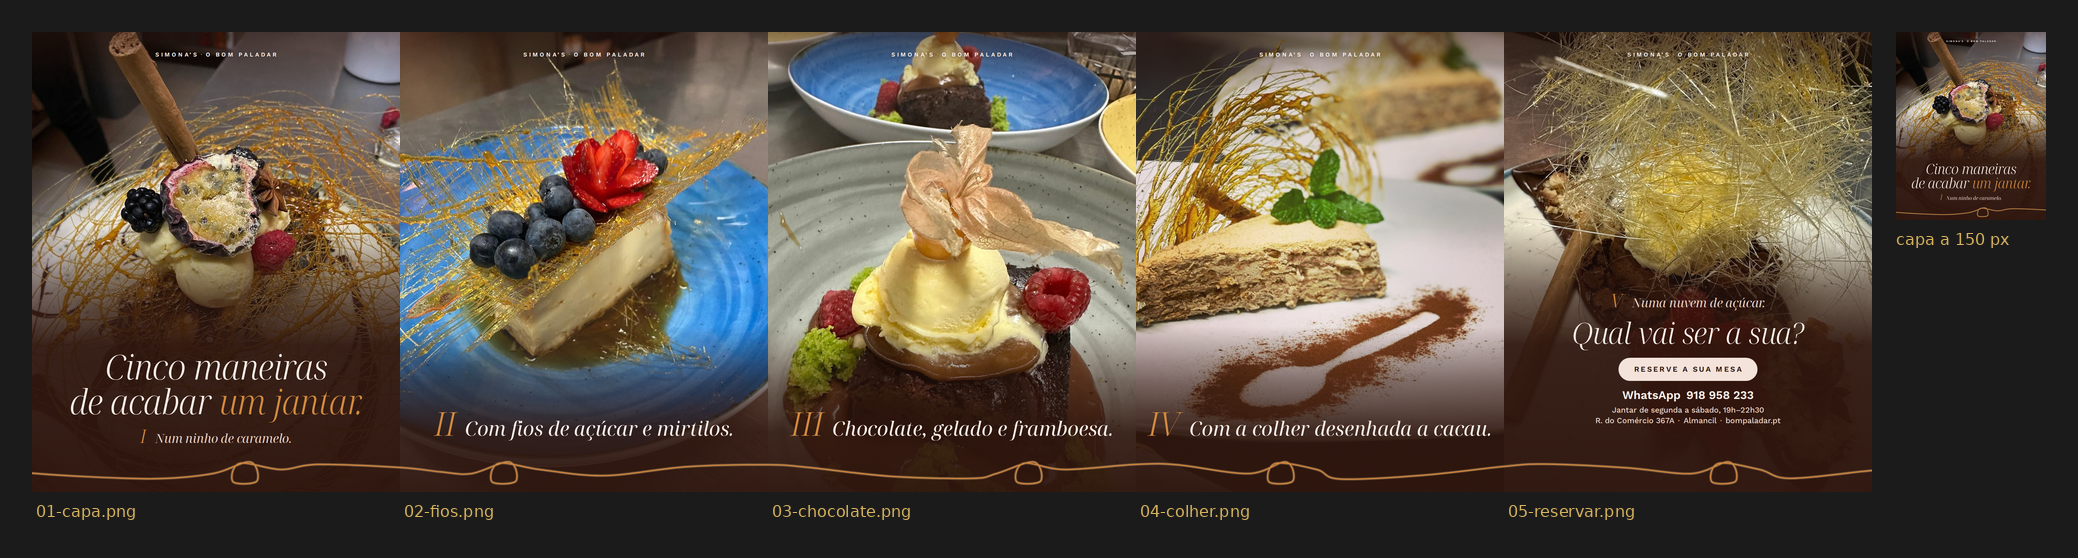
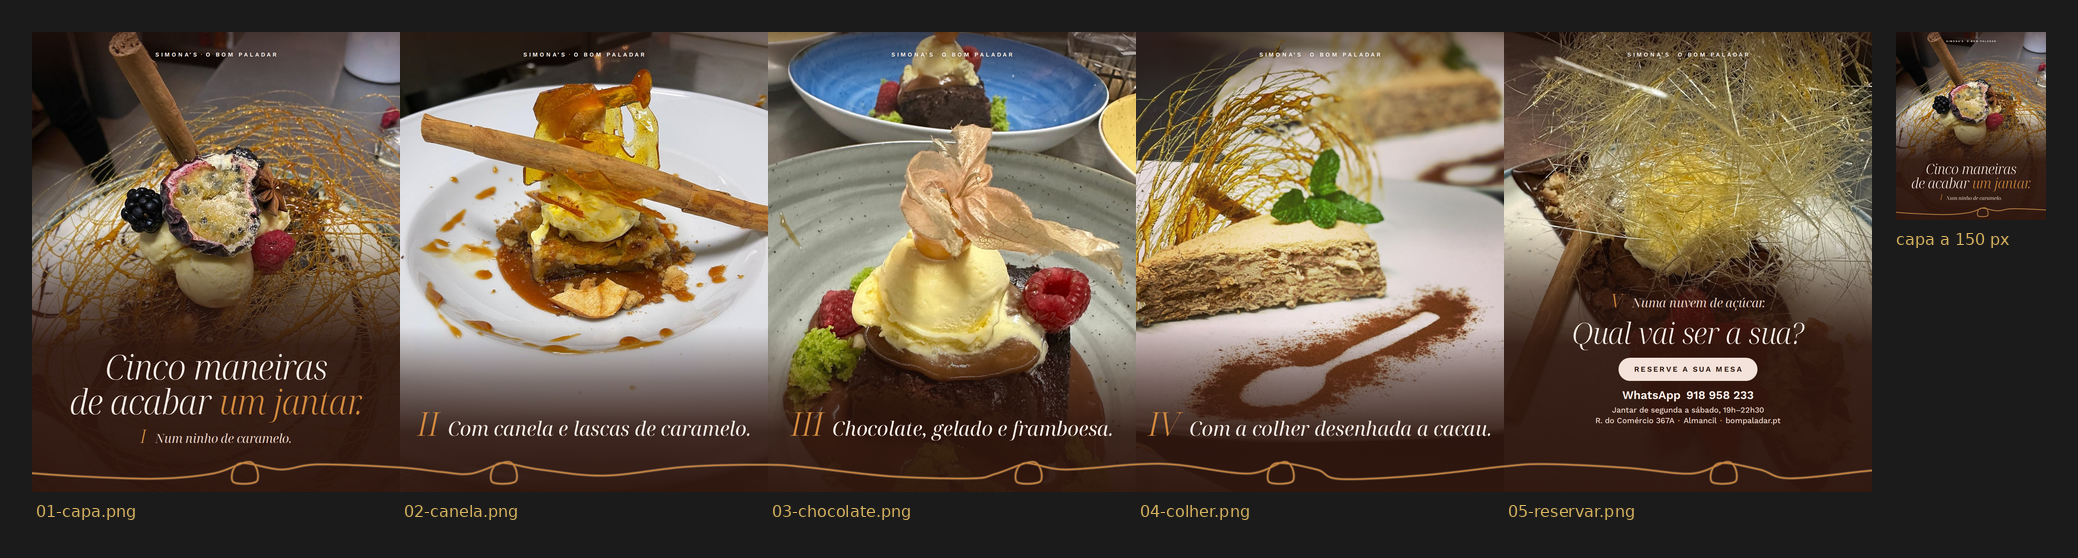
Bom Paladar (arsenal): slide 2 com outra sobremesa (a do pudim foi publicada há pouco)
Claude-Session: https://claude.ai/code/session_01T2udCx2Sd3Psw31k9rqWKh

Changed region(s): [[0.1848, 0.0609, 0.3696, 0.7921], [0.2156, 0.914, 0.2464, 0.9444]]

diff --git a/social/bom-paladar/arsenal-doces/carrossel.html b/social/bom-paladar/arsenal-doces/carrossel.html
@@ -35,9 +35,9 @@ body{background:#1b1b1b;display:flex;flex-direction:column;align-items:center;ga
   <h1 class="t" style="position:absolute;left:0;right:0;top:930px;z-index:3">Cinco maneiras<br>de acabar <em>um jantar.</em></h1>
   <div class="rodape" style="top:1158px"><span class="num" style="font-size:54px">I</span><span class="leg" style="font-size:36px;color:#E9D3C6">Num ninho de caramelo.</span></div>
   <svg class="fio" viewBox="0 0 1080 1350" width="1080" height="1350" aria-hidden="true"><path d="M-60,1290 C-30.0,1292.2 50.0,1299.5 120,1303 C190.0,1306.5 291.7,1312.2 360,1311 C428.3,1309.8 483.3,1304.2 530,1296 C576.7,1287.8 618.3,1258.3 640,1262 C661.7,1265.7 668.3,1308.3 660,1318 C651.7,1327.7 598.3,1328.7 590,1320 C581.7,1311.3 586.7,1272.0 610,1266 C633.3,1260.0 691.7,1283.5 730,1284 C768.3,1284.5 781.7,1270.0 840,1269 C898.3,1268.0 1020.0,1274.3 1080,1278 C1140.0,1281.7 1165.0,1288.0 1200,1291 C1235.0,1294.0 1256.7,1300.8 1290,1296 C1323.3,1291.2 1378.3,1258.3 1400,1262 C1421.7,1265.7 1428.3,1308.3 1420,1318 C1411.7,1327.7 1358.3,1328.7 1350,1320 C1341.7,1311.3 1346.7,1272.0 1370,1266 C1393.3,1260.0 1438.3,1278.0 1490,1284 C1541.7,1290.0 1608.3,1303.3 1680,1302 C1751.7,1300.7 1840.0,1281.3 1920,1276 C2000.0,1270.7 2100.0,1269.7 2160,1270 C2220.0,1270.3 2220.0,1272.3 2280,1278 C2340.0,1283.7 2440.0,1298.7 2520,1304 C2600.0,1309.3 2708.3,1311.3 2760,1310 C2811.7,1308.7 2800.0,1304.0 2830,1296 C2860.0,1288.0 2918.3,1258.3 2940,1262 C2961.7,1265.7 2968.3,1308.3 2960,1318 C2951.7,1327.7 2898.3,1328.7 2890,1320 C2881.7,1311.3 2886.7,1272.0 2910,1266 C2933.3,1260.0 2975.0,1283.5 3030,1284 C3085.0,1284.5 3185.0,1271.3 3240,1269 C3295.0,1266.7 3305.0,1265.5 3360,1270 C3415.0,1274.5 3516.7,1297.3 3570,1296 C3623.3,1294.7 3658.3,1258.3 3680,1262 C3701.7,1265.7 3708.3,1308.3 3700,1318 C3691.7,1327.7 3638.3,1328.7 3630,1320 C3621.7,1311.3 3626.7,1272.0 3650,1266 C3673.3,1260.0 3738.3,1276.3 3770,1284 C3801.7,1291.7 3788.3,1309.2 3840,1312 C3891.7,1314.8 4000.0,1307.2 4080,1301 C4160.0,1294.8 4260.0,1280.5 4320,1275 C4380.0,1269.5 4380.0,1267.3 4440,1268 C4500.0,1268.7 4608.3,1274.3 4680,1279 C4751.7,1283.7 4820.0,1298.8 4870,1296 C4920.0,1293.2 4958.3,1258.3 4980,1262 C5001.7,1265.7 5008.3,1308.3 5000,1318 C4991.7,1327.7 4938.3,1328.7 4930,1320 C4921.7,1311.3 4926.7,1272.0 4950,1266 C4973.3,1260.0 5035.0,1276.7 5070,1284 C5105.0,1291.3 5105.0,1309.5 5160,1310 C5215.0,1310.5 5350.0,1290.3 5400,1287 C5450.0,1283.7 5450.0,1289.5 5460,1290" stroke="#E7B77E" stroke-width="8" fill="none" stroke-linecap="round" opacity=".35"/><path d="M-60,1290 C-30.0,1292.2 50.0,1299.5 120,1303 C190.0,1306.5 291.7,1312.2 360,1311 C428.3,1309.8 483.3,1304.2 530,1296 C576.7,1287.8 618.3,1258.3 640,1262 C661.7,1265.7 668.3,1308.3 660,1318 C651.7,1327.7 598.3,1328.7 590,1320 C581.7,1311.3 586.7,1272.0 610,1266 C633.3,1260.0 691.7,1283.5 730,1284 C768.3,1284.5 781.7,1270.0 840,1269 C898.3,1268.0 1020.0,1274.3 1080,1278 C1140.0,1281.7 1165.0,1288.0 1200,1291 C1235.0,1294.0 1256.7,1300.8 1290,1296 C1323.3,1291.2 1378.3,1258.3 1400,1262 C1421.7,1265.7 1428.3,1308.3 1420,1318 C1411.7,1327.7 1358.3,1328.7 1350,1320 C1341.7,1311.3 1346.7,1272.0 1370,1266 C1393.3,1260.0 1438.3,1278.0 1490,1284 C1541.7,1290.0 1608.3,1303.3 1680,1302 C1751.7,1300.7 1840.0,1281.3 1920,1276 C2000.0,1270.7 2100.0,1269.7 2160,1270 C2220.0,1270.3 2220.0,1272.3 2280,1278 C2340.0,1283.7 2440.0,1298.7 2520,1304 C2600.0,1309.3 2708.3,1311.3 2760,1310 C2811.7,1308.7 2800.0,1304.0 2830,1296 C2860.0,1288.0 2918.3,1258.3 2940,1262 C2961.7,1265.7 2968.3,1308.3 2960,1318 C2951.7,1327.7 2898.3,1328.7 2890,1320 C2881.7,1311.3 2886.7,1272.0 2910,1266 C2933.3,1260.0 2975.0,1283.5 3030,1284 C3085.0,1284.5 3185.0,1271.3 3240,1269 C3295.0,1266.7 3305.0,1265.5 3360,1270 C3415.0,1274.5 3516.7,1297.3 3570,1296 C3623.3,1294.7 3658.3,1258.3 3680,1262 C3701.7,1265.7 3708.3,1308.3 3700,1318 C3691.7,1327.7 3638.3,1328.7 3630,1320 C3621.7,1311.3 3626.7,1272.0 3650,1266 C3673.3,1260.0 3738.3,1276.3 3770,1284 C3801.7,1291.7 3788.3,1309.2 3840,1312 C3891.7,1314.8 4000.0,1307.2 4080,1301 C4160.0,1294.8 4260.0,1280.5 4320,1275 C4380.0,1269.5 4380.0,1267.3 4440,1268 C4500.0,1268.7 4608.3,1274.3 4680,1279 C4751.7,1283.7 4820.0,1298.8 4870,1296 C4920.0,1293.2 4958.3,1258.3 4980,1262 C5001.7,1265.7 5008.3,1308.3 5000,1318 C4991.7,1327.7 4938.3,1328.7 4930,1320 C4921.7,1311.3 4926.7,1272.0 4950,1266 C4973.3,1260.0 5035.0,1276.7 5070,1284 C5105.0,1291.3 5105.0,1309.5 5160,1310 C5215.0,1310.5 5350.0,1290.3 5400,1287 C5450.0,1283.7 5450.0,1289.5 5460,1290" stroke="var(--caramelo)" stroke-width="3" fill="none" stroke-linecap="round"/></svg><p class="marca">Simona’s<b>·</b>O Bom Paladar</p>
-</section><section class="slide" id="02-fios"><img class="fundo" src="img/02-fios.jpg" alt="">
+</section><section class="slide" id="02-canela"><img class="fundo" src="img/02-canela.jpg" alt="">
   <div class="sombra"></div>
-  <div class="rodape" style="top:1100px"><span class="num">II</span><span class="leg">Com fios de açúcar e mirtilos.</span></div>
+  <div class="rodape" style="top:1100px"><span class="num">II</span><span class="leg">Com canela e lascas de caramelo.</span></div>
   <svg class="fio" viewBox="1080 0 1080 1350" width="1080" height="1350" aria-hidden="true"><path d="M-60,1290 C-30.0,1292.2 50.0,1299.5 120,1303 C190.0,1306.5 291.7,1312.2 360,1311 C428.3,1309.8 483.3,1304.2 530,1296 C576.7,1287.8 618.3,1258.3 640,1262 C661.7,1265.7 668.3,1308.3 660,1318 C651.7,1327.7 598.3,1328.7 590,1320 C581.7,1311.3 586.7,1272.0 610,1266 C633.3,1260.0 691.7,1283.5 730,1284 C768.3,1284.5 781.7,1270.0 840,1269 C898.3,1268.0 1020.0,1274.3 1080,1278 C1140.0,1281.7 1165.0,1288.0 1200,1291 C1235.0,1294.0 1256.7,1300.8 1290,1296 C1323.3,1291.2 1378.3,1258.3 1400,1262 C1421.7,1265.7 1428.3,1308.3 1420,1318 C1411.7,1327.7 1358.3,1328.7 1350,1320 C1341.7,1311.3 1346.7,1272.0 1370,1266 C1393.3,1260.0 1438.3,1278.0 1490,1284 C1541.7,1290.0 1608.3,1303.3 1680,1302 C1751.7,1300.7 1840.0,1281.3 1920,1276 C2000.0,1270.7 2100.0,1269.7 2160,1270 C2220.0,1270.3 2220.0,1272.3 2280,1278 C2340.0,1283.7 2440.0,1298.7 2520,1304 C2600.0,1309.3 2708.3,1311.3 2760,1310 C2811.7,1308.7 2800.0,1304.0 2830,1296 C2860.0,1288.0 2918.3,1258.3 2940,1262 C2961.7,1265.7 2968.3,1308.3 2960,1318 C2951.7,1327.7 2898.3,1328.7 2890,1320 C2881.7,1311.3 2886.7,1272.0 2910,1266 C2933.3,1260.0 2975.0,1283.5 3030,1284 C3085.0,1284.5 3185.0,1271.3 3240,1269 C3295.0,1266.7 3305.0,1265.5 3360,1270 C3415.0,1274.5 3516.7,1297.3 3570,1296 C3623.3,1294.7 3658.3,1258.3 3680,1262 C3701.7,1265.7 3708.3,1308.3 3700,1318 C3691.7,1327.7 3638.3,1328.7 3630,1320 C3621.7,1311.3 3626.7,1272.0 3650,1266 C3673.3,1260.0 3738.3,1276.3 3770,1284 C3801.7,1291.7 3788.3,1309.2 3840,1312 C3891.7,1314.8 4000.0,1307.2 4080,1301 C4160.0,1294.8 4260.0,1280.5 4320,1275 C4380.0,1269.5 4380.0,1267.3 4440,1268 C4500.0,1268.7 4608.3,1274.3 4680,1279 C4751.7,1283.7 4820.0,1298.8 4870,1296 C4920.0,1293.2 4958.3,1258.3 4980,1262 C5001.7,1265.7 5008.3,1308.3 5000,1318 C4991.7,1327.7 4938.3,1328.7 4930,1320 C4921.7,1311.3 4926.7,1272.0 4950,1266 C4973.3,1260.0 5035.0,1276.7 5070,1284 C5105.0,1291.3 5105.0,1309.5 5160,1310 C5215.0,1310.5 5350.0,1290.3 5400,1287 C5450.0,1283.7 5450.0,1289.5 5460,1290" stroke="#E7B77E" stroke-width="8" fill="none" stroke-linecap="round" opacity=".35"/><path d="M-60,1290 C-30.0,1292.2 50.0,1299.5 120,1303 C190.0,1306.5 291.7,1312.2 360,1311 C428.3,1309.8 483.3,1304.2 530,1296 C576.7,1287.8 618.3,1258.3 640,1262 C661.7,1265.7 668.3,1308.3 660,1318 C651.7,1327.7 598.3,1328.7 590,1320 C581.7,1311.3 586.7,1272.0 610,1266 C633.3,1260.0 691.7,1283.5 730,1284 C768.3,1284.5 781.7,1270.0 840,1269 C898.3,1268.0 1020.0,1274.3 1080,1278 C1140.0,1281.7 1165.0,1288.0 1200,1291 C1235.0,1294.0 1256.7,1300.8 1290,1296 C1323.3,1291.2 1378.3,1258.3 1400,1262 C1421.7,1265.7 1428.3,1308.3 1420,1318 C1411.7,1327.7 1358.3,1328.7 1350,1320 C1341.7,1311.3 1346.7,1272.0 1370,1266 C1393.3,1260.0 1438.3,1278.0 1490,1284 C1541.7,1290.0 1608.3,1303.3 1680,1302 C1751.7,1300.7 1840.0,1281.3 1920,1276 C2000.0,1270.7 2100.0,1269.7 2160,1270 C2220.0,1270.3 2220.0,1272.3 2280,1278 C2340.0,1283.7 2440.0,1298.7 2520,1304 C2600.0,1309.3 2708.3,1311.3 2760,1310 C2811.7,1308.7 2800.0,1304.0 2830,1296 C2860.0,1288.0 2918.3,1258.3 2940,1262 C2961.7,1265.7 2968.3,1308.3 2960,1318 C2951.7,1327.7 2898.3,1328.7 2890,1320 C2881.7,1311.3 2886.7,1272.0 2910,1266 C2933.3,1260.0 2975.0,1283.5 3030,1284 C3085.0,1284.5 3185.0,1271.3 3240,1269 C3295.0,1266.7 3305.0,1265.5 3360,1270 C3415.0,1274.5 3516.7,1297.3 3570,1296 C3623.3,1294.7 3658.3,1258.3 3680,1262 C3701.7,1265.7 3708.3,1308.3 3700,1318 C3691.7,1327.7 3638.3,1328.7 3630,1320 C3621.7,1311.3 3626.7,1272.0 3650,1266 C3673.3,1260.0 3738.3,1276.3 3770,1284 C3801.7,1291.7 3788.3,1309.2 3840,1312 C3891.7,1314.8 4000.0,1307.2 4080,1301 C4160.0,1294.8 4260.0,1280.5 4320,1275 C4380.0,1269.5 4380.0,1267.3 4440,1268 C4500.0,1268.7 4608.3,1274.3 4680,1279 C4751.7,1283.7 4820.0,1298.8 4870,1296 C4920.0,1293.2 4958.3,1258.3 4980,1262 C5001.7,1265.7 5008.3,1308.3 5000,1318 C4991.7,1327.7 4938.3,1328.7 4930,1320 C4921.7,1311.3 4926.7,1272.0 4950,1266 C4973.3,1260.0 5035.0,1276.7 5070,1284 C5105.0,1291.3 5105.0,1309.5 5160,1310 C5215.0,1310.5 5350.0,1290.3 5400,1287 C5450.0,1283.7 5450.0,1289.5 5460,1290" stroke="var(--caramelo)" stroke-width="3" fill="none" stroke-linecap="round"/></svg><p class="marca">Simona’s<b>·</b>O Bom Paladar</p>
 </section><section class="slide" id="03-chocolate"><img class="fundo" src="img/03-chocolate.jpg" alt="">
   <div class="sombra"></div>

diff --git a/social/bom-paladar/arsenal-doces/build.py b/social/bom-paladar/arsenal-doces/build.py
@@ -30,7 +30,7 @@ CASA = {
 # (id, numeral, legenda, foto, zoom, foco x, foco y)
 DOCES = [
     ("01-capa", "I", "Num ninho de caramelo.", "WhatsApp Image 2026-07-03 at 14.59.40.jpeg", 1.0, 0.5, 0.3),
-    ("02-fios", "II", "Com fios de açúcar e mirtilos.", "WhatsApp Image 2026-07-03 at 14.59.08 (2).jpeg", 1.0, 0.5, 0.35),
+    ("02-canela", "II", "Com canela e lascas de caramelo.", "WhatsApp Image 2026-08-07 at 13.05.21.jpeg", 1.0, 0.5, 0.45),
     ("03-chocolate", "III", "Chocolate, gelado e framboesa.", "WhatsApp Image 2026-07-03 at 14.38.42 (4).jpeg", 1.0, 0.5, 0.6),
     ("04-colher", "IV", "Com a colher desenhada a cacau.", "WhatsApp Image 2026-08-07 at 12.57.48.jpeg", 1.0, 0.4, 0.5),
     ("05-reservar", "V", "Numa nuvem de açúcar.", "WhatsApp Image 2026-07-03 at 14.59.08.jpeg", 1.0, 0.5, 0.1),

diff --git a/social/bom-paladar/arsenal-doces/legenda.md b/social/bom-paladar/arsenal-doces/legenda.md
@@ -9,7 +9,7 @@ Carrossel intemporal, fora da série dos azulejos. Pode sair em qualquer semana.
 | # | Ficheiro | Texto |
 |---|---|---|
 | 1 | `01-capa.png` | **Cinco maneiras de acabar um jantar.** — I. Num ninho de caramelo. |
-| 2 | `02-fios.png` | II. Com fios de açúcar e mirtilos. |
+| 2 | `02-canela.png` | II. Com canela e lascas de caramelo. |
 | 3 | `03-chocolate.png` | III. Chocolate, gelado e framboesa. |
 | 4 | `04-colher.png` | IV. Com a colher desenhada a cacau. |
 | 5 | `05-reservar.png` | V. Numa nuvem de açúcar. — **Qual vai ser a sua?** Reserve a sua mesa · WhatsApp · horário · morada |
@@ -28,7 +28,7 @@ Carrossel intemporal, fora da série dos azulejos. Pode sair em qualquer semana.
 ## Texto alternativo
 
 1. Sobremesa com gelado, maracujá e amora dentro de um ninho de fios de caramelo, com pau de canela. Texto: Cinco maneiras de acabar um jantar. Num ninho de caramelo.
-2. Fatia de pudim num prato azul, com fios de açúcar, mirtilos e morango em flor. Texto: Com fios de açúcar e mirtilos.
+2. Sobremesa com base crocante, gelado, lascas de caramelo e um pau de canela, com molho de caramelo no prato. Texto: Com canela e lascas de caramelo.
 3. Bolo de chocolate com gelado, framboesas e molho de chocolate. Texto: Chocolate, gelado e framboesa.
 4. Fatia de bolo em camadas, com uma colher desenhada a cacau no prato. Texto: Com a colher desenhada a cacau.
 5. Sobremesa coberta por uma nuvem de fios de açúcar, com morango em flor, canela e anis-estrelado. Texto: Numa nuvem de açúcar. Qual vai ser a sua? Reserve a sua mesa. WhatsApp 918 958 233.
